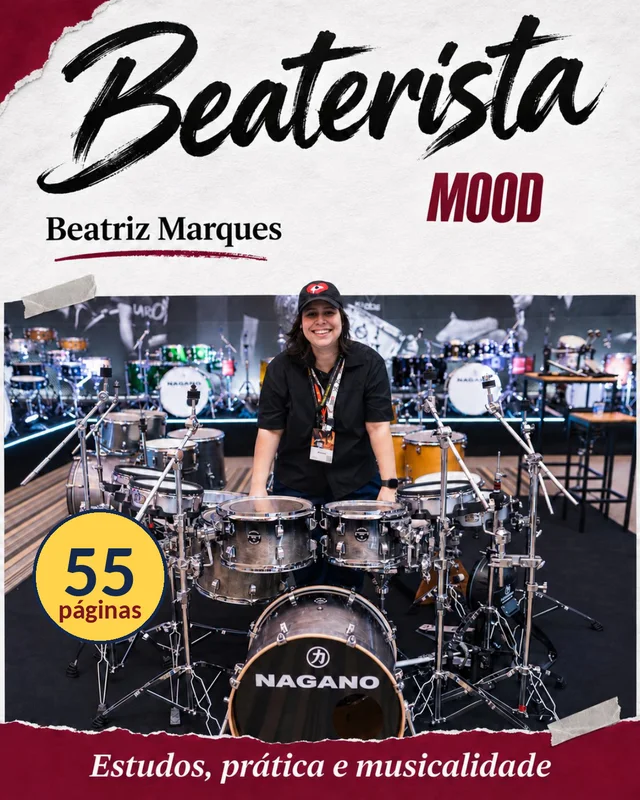
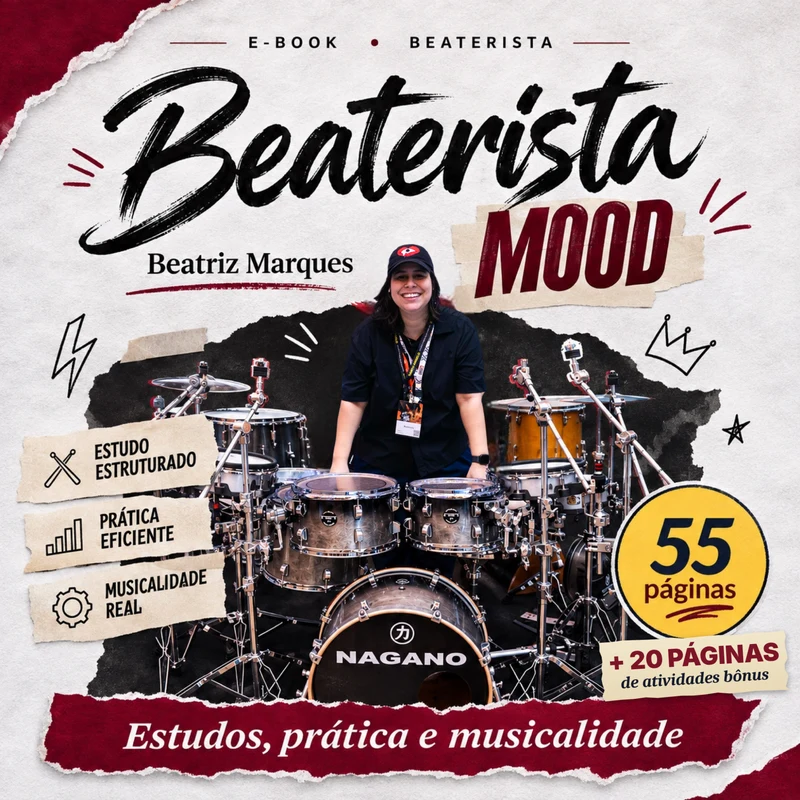
Lojinha: abas Comece por aqui e Robôterista Ensina, area Robôterista com frases de valor, capas novas (Start, Kids, Mood + cronograma), precos novos; sw v804
Claude-Session: https://claude.ai/code/session_017Ekti1Q6oUAYfqskysPF79

diff --git a/js/views/lojinha-vitrine.js b/js/views/lojinha-vitrine.js
@@ -7,7 +7,7 @@ import { precoPasse, URL_CARTAO } from '../passe-preco.js';
 import { GRATIS } from '../amostra.js';
 import * as AC from '../acesso.js';
 import { premios } from './premios.js';
-import { BANNERS, TELAS_PASSE, PILARES_PASSE, UNIVERSO, BANCA, MUSICOS, ADULTOS, COMBOS, COMBO_ITENS, GRATIS_ITENS } from '../loja-vitrine-config.js';
+import { BANNERS, TELAS_PASSE, PILARES_PASSE, UNIVERSO, BANCA, MUSICOS, COMECE, COMBOS, COMBO_ITENS, GRATIS_ITENS } from '../loja-vitrine-config.js';
 
 const CONTATO = 'fale com a equipe #BeateristaTeam pelo WhatsApp (18) 99180-4150';
 const prod = (id) => PRODUTOS.find((p) => p.id === id);
@@ -152,16 +152,22 @@ function passe() {
       h('button', { type: 'button', class: 'lj-btn amarelo', 'data-id': 'passe', onclick: escolhaPasse }, 'Adquirir o passe', h('b', { 'aria-hidden': 'true' }, '›'))));
 }
 
+const FRASES_COMBO = {
+  'combo-ensina': 'o caminho completo: teoria, ritmo e prática. mais de 200 páginas e 48 atividades pra imprimir',
+  'combo-brincando': 'jogo da memória, colorir e jogo de cartas: a criança aprende música brincando, sem tela',
+  'combo-cards': '360 cartas pra imprimir, recortar e revisar: estudar fica um jogo',
+};
 function combo(c) {
   const itens = (COMBO_ITENS[c.id] || []).map(prod).filter(Boolean);
   const alvo = c.link ? c : c.provisorio ? { id: c.id, nome: c.provisorio.nome, preco: c.provisorio.preco, link: c.provisorio.link } : c;
-  const paga = num(alvo.preco); const soma = itens.reduce((t, p) => t + num(p.preco), 0); const eco = c.link && paga ? soma - paga : 0; // só mostra economia quando o combo tem preço próprio e a conta fecha a favor
+  // sem conta de economia (pedido da Bea): em vez disso uma frase que mostra aos pais por que vale a pena
+  const frase = FRASES_COMBO[c.id] || '';
   const breve = !alvo.link;
   return h('article', { class: 'ljv-combo', 'data-id': c.id },
     h('div', { class: 'ljv-combo-itens', style: `--n:${itens.length}`, 'aria-label': 'o que vem no combo' }, ...itens.map((p) => h('button', { type: 'button', class: 'ljv-mini', 'aria-label': `ver ${p.nome}`, onclick: () => ampliar(p) }, h('img', { src: p.img, alt: p.nome, loading: 'lazy', draggable: 'false' })))),
     h('div', { class: 'ljv-combo-fim' },
-      h('div', { class: 'ljv-combo-nome' }, h('b', {}, c.nome), h('small', {}, c.provisorio && !c.link ? 'combo chegando · por enquanto leve o jogo da memória' : `${c.itens.length || itens.length} materiais${soma && itens.length === c.itens.length ? ` · ${brl(soma)} se comprados separados` : ''}`)),
-      h('div', { class: 'ljv-combo-preco' }, alvo.preco ? h('b', { class: 'ljv-preco' }, c.precoDe ? [h('s', { class: 'lj-de' }, c.precoDe), ' ', alvo.preco] : alvo.preco) : null, eco > 0.004 ? h('span', { class: 'ljv-eco' }, `economia de ${brl(eco)}`) : null)),
+      h('div', { class: 'ljv-combo-nome' }, h('b', {}, c.nome), h('small', {}, frase || `${c.itens.length || itens.length} materiais`)),
+      h('div', { class: 'ljv-combo-preco' }, alvo.preco ? h('b', { class: 'ljv-preco' }, c.precoDe ? [h('s', { class: 'lj-de' }, c.precoDe), ' ', alvo.preco] : alvo.preco) : null)),
     breve ? h('button', { type: 'button', class: 'lj-btn breve', onclick: () => abrirPagamento({}) }, 'em breve') : botao(c.link ? 'Adquirir' : 'Levar o jogo', alvo, 'amarelo'));
 }
 
@@ -187,13 +193,15 @@ const comprarPix = () => irPara(PASSE.link);
 const comprarCartao = () => irPara(URL_CARTAO);
 const LENDARIAS_IMG = ['L01', 'L02', 'L03', 'L04', 'L05', 'L06'].map((c) => `assets/figurinhas/lendarias/${c}.webp`);
 
-/** Topo da vitrine: materiais do Paul (PDF pra imprimir). Os combos e o colorir vêm logo abaixo; o passe fica mais pra baixo. */
-function heroMateriais() {
-  return h('section', { class: 'ljv-hero ljv-hero-mat', id: 'lj-topo', 'aria-label': 'materiais do Paul' },
+/** ÁREA "Robôterista" (pra crianças): cabeçalho, a arte larga dos 3 combos, as frases de valor, os combos e a banca do Paul. Fica no topo da Lojinha. */
+function areaRobo(combos, banca) {
+  return h('section', { class: 'ljv-area ljv-area-robo', id: 'lj-robo', 'aria-label': 'Robôterista: materiais pra crianças' },
     h('div', { class: 'ljv-hero-top' },
-      h('div', {}, h('small', { class: 'ljv-kick' }, 'lojinha do paul'), h('h1', {}, 'Música pra ', h('br'), 'imprimir, colorir ', h('br'), 'e brincar.')),
+      h('div', {}, h('small', { class: 'ljv-kick' }, 'área · pra crianças'), h('h1', {}, 'Robôterista'), h('p', { class: 'ljv-area-sub' }, 'o Paul ensina música brincando: apostilas, jogos e colorir pra imprimir')),
       h('img', { class: 'ljv-hero-paul', src: 'assets/paul/animacoes/web/paul-comemoracao.webp', alt: 'Paul comemorando', width: 140, height: 140 })),
-    h('div', { class: 'ljv-hero-chips' }, h('span', {}, 'PDF na hora'), h('span', {}, 'pagamento único'), h('span', {}, 'pouca tinta')));
+    h('img', { class: 'ljv-combos-arte', src: BANNER_COMBOS.img, alt: BANNER_COMBOS.alt, width: BANNER_COMBOS.w, height: BANNER_COMBOS.h, draggable: 'false' }),
+    h('ul', { class: 'ljv-vale' }, ...['pagamento único, sem mensalidade', 'PDF na hora: imprima quantas vezes quiser', 'feito pra imprimir com pouca tinta', 'brincar e aprender, sem tela'].map((t) => h('li', {}, t))),
+    combos, banca);
 }
 
 /** Passe anual (acesso aos jogos): título, preço, botão do Pix e do cartão. Fica depois dos combos e da banca. */
@@ -219,25 +227,33 @@ function lendarias() {
 }
 
 
-const ALVO = { cards: 'banca', ensina: 'universo', evoluir: 'musicos' }; // rotas antigas #/lojinha/<seção>
+const ALVO = { cards: 'banca', ensina: 'universo', evoluir: 'comece' }; // rotas antigas #/lojinha/<seção>
 
 /** `secao` = rota antiga (cards | ensina | evoluir) ou id de seção: abre a vitrine já rolada até lá. `opts.abrirCodigo` = folha "já tenho meu código". */
 export function vitrine(secao_ = '', { abrirCodigo, inicio = '#/inicio' } = {}) {
   const universo = secao('universo', 'Universo Robôterista', 'as apostilas do Paul: toque na capa e folheie por dentro', { src: 'assets/entrada/paul-professor.webp', alt: 'Paul professor' }, produtos(UNIVERSO));
-  const musicos = secao('musicos', 'Para músicos', 'estudo de bateria, violão e os exercícios que a Bea leva pro palco', { src: 'assets/entrada/paul-guitarra.webp', alt: 'Paul com a guitarra' }, produtos(MUSICOS));
-  const adultos = secao('adultos', 'Adolescentes e adultos', 'apostilas pra quem quer tocar de verdade: bateria e teclado', { src: 'assets/paul/animacoes/web/paul-pensativo.webp', alt: 'Paul pensando' }, produtos(ADULTOS));
-  const combos = secao('combos', 'Combos completos', 'tudo que vem dentro e quanto você economiza', { src: 'assets/paul/animacoes/web/paul-bau.webp', alt: 'Paul com o baú' }, h('img', { class: 'ljv-combos-arte', src: BANNER_COMBOS.img, alt: BANNER_COMBOS.alt, width: BANNER_COMBOS.w, height: BANNER_COMBOS.h, loading: 'lazy', draggable: 'false' }), ...COMBOS.map(combo));
+  const comece = secao('comece', 'Comece por aqui', 'bateria, teclado e violão do zero, pra adolescentes e adultos', { src: 'assets/paul/animacoes/web/paul-pensativo.webp', alt: 'Paul pensando' }, produtos(COMECE));
+  const combos = secao('combos', 'Combos completos', 'cada combo reúne tudo de um jeito de aprender', { src: 'assets/paul/animacoes/web/paul-bau.webp', alt: 'Paul com o baú' }, ...COMBOS.map(combo));
   const resp = h('details', { class: 'ljv-resp' },
     h('summary', {}, 'para os responsáveis: pagamento e informações'),
     h('ul', {}, h('li', {}, AVISO_DIGITAL), h('li', {}, 'o passe: 12 meses de acesso, pagamento único (pix) pelo WhatsApp. os materiais: pagamento na página da Hotmart.'), h('li', {}, CONTATO)),
     h('a', { class: 'ljv-link', href: '#/jogos/relatorio' }, 'ver o que cada jogo desenvolve ›'));
   const prem = premios(); // só quem tem o passe (código válido) vê os prêmios; quem não tem vê o Passe à venda
-  const nav = [...(prem ? [['premios', 'Prêmios']] : []), ['combos', 'Combos'], ['banca', 'Colorir e jogos'], ['lendarias', 'Lendárias'], ...(prem ? [] : [['acesso', 'Passe']]), ['universo', 'Apostilas'], ['musicos', 'Músicos'], ['adultos', 'Teens e adultos'], ['gratis', 'Grátis']];
+  const nav = [...(prem ? [['premios', 'Prêmios']] : []), ['lendarias', 'Lendárias'], ...(prem ? [] : [['acesso', 'Passe']]), ['gratis', 'Grátis']];
   const topo = h('div', { class: 'ljv-topo' },
     h('div', { class: 'ljv-topo-l' }, h('a', { class: 'ljv-link', href: inicio }, '‹ voltar ao início'), h('button', { type: 'button', class: 'ljv-link', onclick: () => (abrirCodigo ? abrirCodigo() : toast('digite o código no fim da página')) }, 'já tenho um código')),
     h('nav', { class: 'ljv-nav', 'aria-label': 'seções da lojinha' }, ...nav.map(([id, t]) => h('button', { type: 'button', onclick: () => rolar(document.getElementById(`lj-${id}`)) }, t))));
-  const heroEl = prem ? null : hero(); // quem já tem o passe vê os prêmios no topo; quem não tem vê o passe depois dos combos
-  const raiz = h('div', { class: 'ljv ljv-azul bmr' }, topo, prem || heroMateriais(), prem ? null : combos, prem ? null : banca(), prem ? combos : null, prem ? banca() : null, lendarias(), heroEl, heroEl ? passe() : null, banners(), universo, musicos, adultos, gratis(), resp);
+  // 2 abas (pedido da Bea): "Comece por aqui" (do zero, adolescentes e adultos) e "Robôterista Ensina" (combos, banca e apostilas pra crianças)
+  const painelComece = h('div', { class: 'ljv-painel-aba', id: 'lj-aba-comece', role: 'tabpanel', hidden: true }, comece);
+  const painelRobo = h('div', { class: 'ljv-painel-aba', id: 'lj-aba-robo', role: 'tabpanel' }, areaRobo(combos, banca()), universo);
+  const ABAS = [['comece', 'Comece por aqui', painelComece], ['robo', 'Robôterista Ensina', painelRobo]];
+  const botoes = ABAS.map(([id, t]) => h('button', { type: 'button', class: 'ljv-aba', role: 'tab', 'data-aba': id, onclick: () => abrirAba(id) }, t));
+  function abrirAba(id) { ABAS.forEach(([k, , p], i) => { const on = k === id; p.hidden = !on; botoes[i].classList.toggle('on', on); botoes[i].setAttribute('aria-selected', String(on)); }); }
+  const abasEl = h('div', { class: 'ljv-abas', role: 'tablist', 'aria-label': 'escolha por onde começar' }, ...botoes);
+  const heroEl = prem ? null : hero(); // quem já tem o passe vê os prêmios no topo; quem não tem vê o passe depois das abas
+  const raiz = h('div', { class: 'ljv ljv-azul bmr' }, topo, prem, abasEl, painelRobo, painelComece, lendarias(), heroEl, heroEl ? passe() : null, banners(), gratis(), resp);
+  const NA_ABA = { comece: 'comece', evoluir: 'comece', musicos: 'comece', adultos: 'comece', robo: 'robo', combos: 'robo', banca: 'robo', universo: 'robo', ensina: 'robo', cards: 'robo' };
+  abrirAba(NA_ABA[secao_] || 'robo'); // abre a aba onde está o que a pessoa pediu (padrão: Robôterista Ensina, com os combos)
   const alvo = ALVO[secao_] || (secao_ && document.getElementById ? secao_ : '');
   if (alvo) setTimeout(() => rolar(raiz.querySelector(`#lj-${alvo}`)), 350);
   return raiz;

diff --git a/js/loja-config.js b/js/loja-config.js
@@ -22,7 +22,7 @@ export const ANUAL = { id: 'anual-lancamento', nome: 'Acesso anual', ..._ARTE, l
 export const COMBOS = [
   { id: 'combo-ensina', cor: 'azul', nome: 'Combo Robôterista Ensina', desc: '3 apostilas completas pra aprender teoria, praticar e evoluir', itens: ['Melodia e Harmonia · 102 páginas', 'Figuras e Ritmos · 100 páginas', 'Na Prática · 48 atividades'], preco: 'R$ 79,90', img: 'assets/loja/combo-ensina.webp', w: 1199, h: 1312, link: 'https://pay.hotmart.com/K108463375K' },
   // Link do combo na Hotmart recebido da Bea em 28/nov/2026 (H108704370B). PREÇO ainda não informado (sem `preco` o cartão mostra só o botão). O 3º item é um jogo de cartas das figuras rítmicas; a Bea ainda vai dizer o NOME dele (não usar "Uno": marca da Mattel).
-  { id: 'combo-brincando', cor: 'vermelho', nome: 'Combo Robôterista Aprende Brincando', desc: 'jogo da memória, colorir e jogo de cartas pra aprender música brincando', itens: ['Jogo da Memória Musical · 61 pares', 'Robôterista Paul para colorir · 50 páginas', 'Jogo de cartas das figuras rítmicas'], preco: '', img: 'assets/loja/combo-brincando.webp', w: 1199, h: 1312, link: 'https://pay.hotmart.com/H108704370B' },
+  { id: 'combo-brincando', cor: 'vermelho', nome: 'Combo Robôterista Aprende Brincando', desc: 'jogo da memória, colorir e jogo de cartas pra aprender música brincando', itens: ['Jogo da Memória Musical · 61 pares', 'Robôterista Paul para colorir · 50 páginas', 'Jogo de cartas das figuras rítmicas'], preco: 'R$ 49,90', img: 'assets/loja/combo-brincando.webp', w: 1199, h: 1312, link: 'https://pay.hotmart.com/H108704370B' },
   { id: 'combo-cards', cor: 'amarelo', nome: 'Combo Robôterista Cria e Revisa', desc: 'os 3 baralhos de cards pra imprimir, recortar e revisar', itens: ['Cards: Teoria Musical · 150 cartas', 'Cards: Instrumentos · 90 cartas', 'Cards: Dicionário Musical · 120 termos'], preco: 'R$ 49,90', precoDe: 'R$ 59,70', img: 'assets/loja/cards-combo.webp', w: 800, h: 800, link: 'https://pay.hotmart.com/F108547827R' },
 ];
 // Banner larga "Combos especiais" (arte da Bea): abre a seção de combos da Lojinha.
@@ -37,7 +37,7 @@ export const PRODUTOS = [
   { id: 'ritmo', secao: 'ensina', nome: 'Ritmo e Figuras', desc: 'figuras, pausas e levadas de rock', preco: 'R$ 29,90', tag: '100 páginas', img: 'assets/loja/ritmo.webp', w: 800, h: 800, fotos: ['assets/loja/previa/d-ritmo.webp', 'assets/loja/previa/d-ritmo-2.webp', 'assets/loja/previa/d-ritmo-3.webp', 'assets/loja/previa/d-ritmo-4.webp', 'assets/loja/previa/d-ritmo-5.webp'], link: 'https://pay.hotmart.com/Q108426927S' },
   { id: 'harmonia', secao: 'ensina', nome: 'Harmonia e Melodia', desc: 'notas e acordes no teclado e no violão', preco: 'R$ 29,90', tag: '102 páginas', img: 'assets/loja/harmonia.webp', w: 800, h: 800, fotos: ['assets/loja/previa/d-harmonia.webp'], link: 'https://pay.hotmart.com/L108460189W' },
   { id: 'start', secao: 'evoluir', nome: 'Bateria Start', desc: 'ebook para iniciantes: peças, figuras rítmicas, partitura e rudimentos', preco: 'R$ 14,90', precoDe: 'R$ 29,90', selo: 'PROMOÇÃO BLACK FRIDAY · metade do preço', tag: '44 páginas', img: 'assets/loja/bateria-start.webp', fotos: ['assets/loja/previa/d-bateria-start.webp'], link: 'https://pay.hotmart.com/K66533032H' },
-  { id: 'mood', secao: 'evoluir', nome: 'Beaterista Mood', desc: 'exercícios que eu estudo, ensino e levo pro palco', tag: '55 páginas', preco: 'R$ 29,90', img: 'assets/loja/mood.webp', fotos: ['assets/loja/previa/d-mood.webp', 'assets/loja/previa/d-mood-2.webp', 'assets/loja/previa/d-mood-3.webp', 'assets/loja/previa/d-mood-4.webp', 'assets/loja/previa/d-mood-5.webp'], link: 'https://pay.hotmart.com/G103615712R' },
+  { id: 'mood', secao: 'evoluir', nome: 'Beaterista Mood', desc: 'exercícios que eu estudo, ensino e levo pro palco', tag: '55 páginas', preco: 'R$ 29,90', img: 'assets/loja/mood.webp', fotos: ['assets/loja/previa/d-mood-cronograma.webp', 'assets/loja/previa/d-mood.webp', 'assets/loja/previa/d-mood-2.webp', 'assets/loja/previa/d-mood-3.webp', 'assets/loja/previa/d-mood-4.webp', 'assets/loja/previa/d-mood-5.webp'], link: 'https://pay.hotmart.com/G103615712R' },
   // Adolescentes e adultos (novos, 28/nov/2026). PREÇO ainda não informado pela Bea: preencha `preco` quando ela mandar (sem `preco` o cartão mostra só o botão).
   { id: 'toca-bateria', secao: 'adultos', nome: 'Beaterista Toca Bateria', desc: 'para adultos: da primeira baqueta ao primeiro groove, em 15 minutos por dia', tag: '97 páginas', preco: '', img: 'assets/loja/toca-bateria.webp', w: 800, h: 800, fotos: ['assets/loja/previa/d-toca-bateria.webp', 'assets/loja/previa/d-toca-bateria-2.webp'], link: 'https://pay.hotmart.com/E108704194G' },
   { id: 'toca-teclado', secao: 'adultos', nome: 'Beaterista Toca Teclado', desc: 'do zero: da primeira tecla à primeira música, em 15 minutos por dia', tag: '67 páginas', preco: '', img: 'assets/loja/toca-teclado.webp', w: 800, h: 800, fotos: ['assets/loja/previa/d-toca-teclado.webp', 'assets/loja/previa/d-toca-teclado-2.webp'], link: 'https://pay.hotmart.com/X108704208I' },
@@ -67,7 +67,7 @@ export const DENTRO = {
   'bateria-kids': ['36 páginas pra colorir, aprender e se divertir', 'peças da bateria, baquetas, postura e partitura', 'figuras rítmicas, labirinto e metrônomo', 'caça-palavras, cruzadinha e mais', 'brinde: desenhos pra colorir'],
   colorir: ['50 páginas com o Paul pra imprimir e pintar do seu jeito', 'só desenhos pra colorir (não é aula)'],
   start: ['44 páginas, ebook pra quem está começando', 'peças da bateria', 'figuras rítmicas', 'partitura e rudimentos'],
-  mood: ['55 páginas', 'exercícios que a Bea estuda, ensina e leva pro palco', 'estudos, prática e musicalidade'],
+  mood: ['55 páginas + 20 páginas de atividades bônus', 'estudo estruturado, prática eficiente e musicalidade real', 'exercícios que a Bea estuda, ensina e leva pro palco', 'com o material de estudo: cronograma de estudo + 30 dicas práticas de estudo'],
   violao: ['47 páginas, da primeira corda à primeira música'],
   'toca-bateria': ['97 páginas em PDF, pra ler e imprimir', 'apostila para adultos: da primeira baqueta ao primeiro groove, em 15 minutos por dia', 'grooves por estilo (rock, meio-tempo e pop dançante) com partitura', 'uma música de 8 compassos, em partitura, pra ver o mapa funcionando'],
   'toca-violao': ['124 páginas em PDF, pra ler e imprimir', 'do zero: da primeira corda à primeira música', 'os acordes maiores abertos, com o desenho do braço e os dedos', 'melodias em partitura e tablatura (ex.: Parabéns pra você)'],

diff --git a/css/lojinha.css b/css/lojinha.css
@@ -412,3 +412,18 @@ body:has(#view.lj-escura) { background: #070b19; }
 
 /* arte larga dos 3 combos no começo da seção de combos (pedido da Bea) */
 .ljv-combos-arte { display: block; width: 100%; height: auto; border-radius: 22px; box-shadow: 0 18px 36px -18px #000, 0 0 0 1px rgb(255 214 102 / .3); }
+
+/* ÁREA Robôterista (topo da Lojinha) */
+.ljv-area { display: grid; gap: 14px; padding: 6px 2px 4px; } .ljv-area .ljv-hero-top { grid-template-columns: 1fr 112px; }
+.ljv-area h1 { margin: 0; font: 900 clamp(34px, 10vw, 42px)/1 var(--body); letter-spacing: -.02em; background: linear-gradient(180deg, #fff 30%, #cfe0ff 100%); -webkit-background-clip: text; background-clip: text; color: transparent; }
+.ljv-area-sub { margin: 6px 0 0; font: 600 13px/1.35 var(--body); color: var(--mut); max-width: 30ch; } .ljv-area .ljv-hero-paul { width: 112px; height: 112px; }
+.ljv-vale { list-style: none; margin: 0; padding: 0; display: grid; grid-template-columns: 1fr 1fr; gap: 8px; }
+.ljv-vale li { display: flex; gap: 8px; align-items: flex-start; padding: 10px 12px; border-radius: 16px; background: rgb(255 255 255 / .1); border: 1px solid rgb(255 214 102 / .25); font: 800 12px/1.25 var(--body); }
+.ljv-vale li::before { content: "✓"; color: #3ddc84; font-weight: 900; }
+.ljv-azul .ljv-combo-nome small { font: 600 12px/1.35 var(--body); color: var(--mut); }
+
+/* 2 abas grandes no topo: Comece por aqui | Robôterista Ensina */
+.ljv-abas { display: grid; grid-template-columns: 1fr 1fr; gap: 6px; padding: 5px; border-radius: 22px; background: rgb(255 255 255 / .1); border: 1px solid rgb(255 214 102 / .25); box-shadow: inset 0 1px 0 rgb(255 255 255 / .18); }
+.ljv-aba { border: 0; cursor: pointer; border-radius: 18px; padding: 13px 8px; min-height: 50px; background: transparent; color: #fff; font: 900 14.5px/1.1 var(--body); letter-spacing: .01em; -webkit-tap-highlight-color: transparent; }
+.ljv-aba.on { background: linear-gradient(180deg, #ffe58a, #ffd23f 50%, #f2b51c); color: #14235a; box-shadow: inset 0 1px 0 rgb(255 255 255 / .7), 0 10px 20px -10px rgb(255 190 30 / .7); }
+.ljv-painel-aba { display: grid; gap: 14px; min-width: 0; } .ljv-painel-aba[hidden] { display: none; }

diff --git a/js/loja-vitrine-config.js b/js/loja-vitrine-config.js
@@ -38,7 +38,7 @@ export const BANCA = [
   { id: 'cartas', nome: 'cartas', ids: ['cards-teoria', 'cards-instrumentos', 'cards-dicionario'] },
 ];
 export const MUSICOS = ['start', 'mood', 'violao'];
-export const ADULTOS = ['toca-bateria', 'toca-teclado', 'toca-violao']; // aba Adolescentes e adultos
+export const COMECE = ['toca-bateria', 'toca-teclado', 'toca-violao', 'start', 'bateria-kids', 'mood']; // aba "Comece por aqui" (o "Para músicos" saiu: Violão Start tinha o mesmo link do Toca Violão)
 
 // Combos (config nova da Bea em loja-config.js): aqui só dizemos quais produtos soltos cada um reúne, pra mostrar o que vem dentro e calcular a economia real.
 export const COMBO_ITENS = { 'combo-ensina': ['ritmo', 'harmonia', 'pratica'], 'combo-brincando': ['memoria', 'colorir'], 'combo-cards': ['cards-teoria', 'cards-instrumentos', 'cards-dicionario'] };
